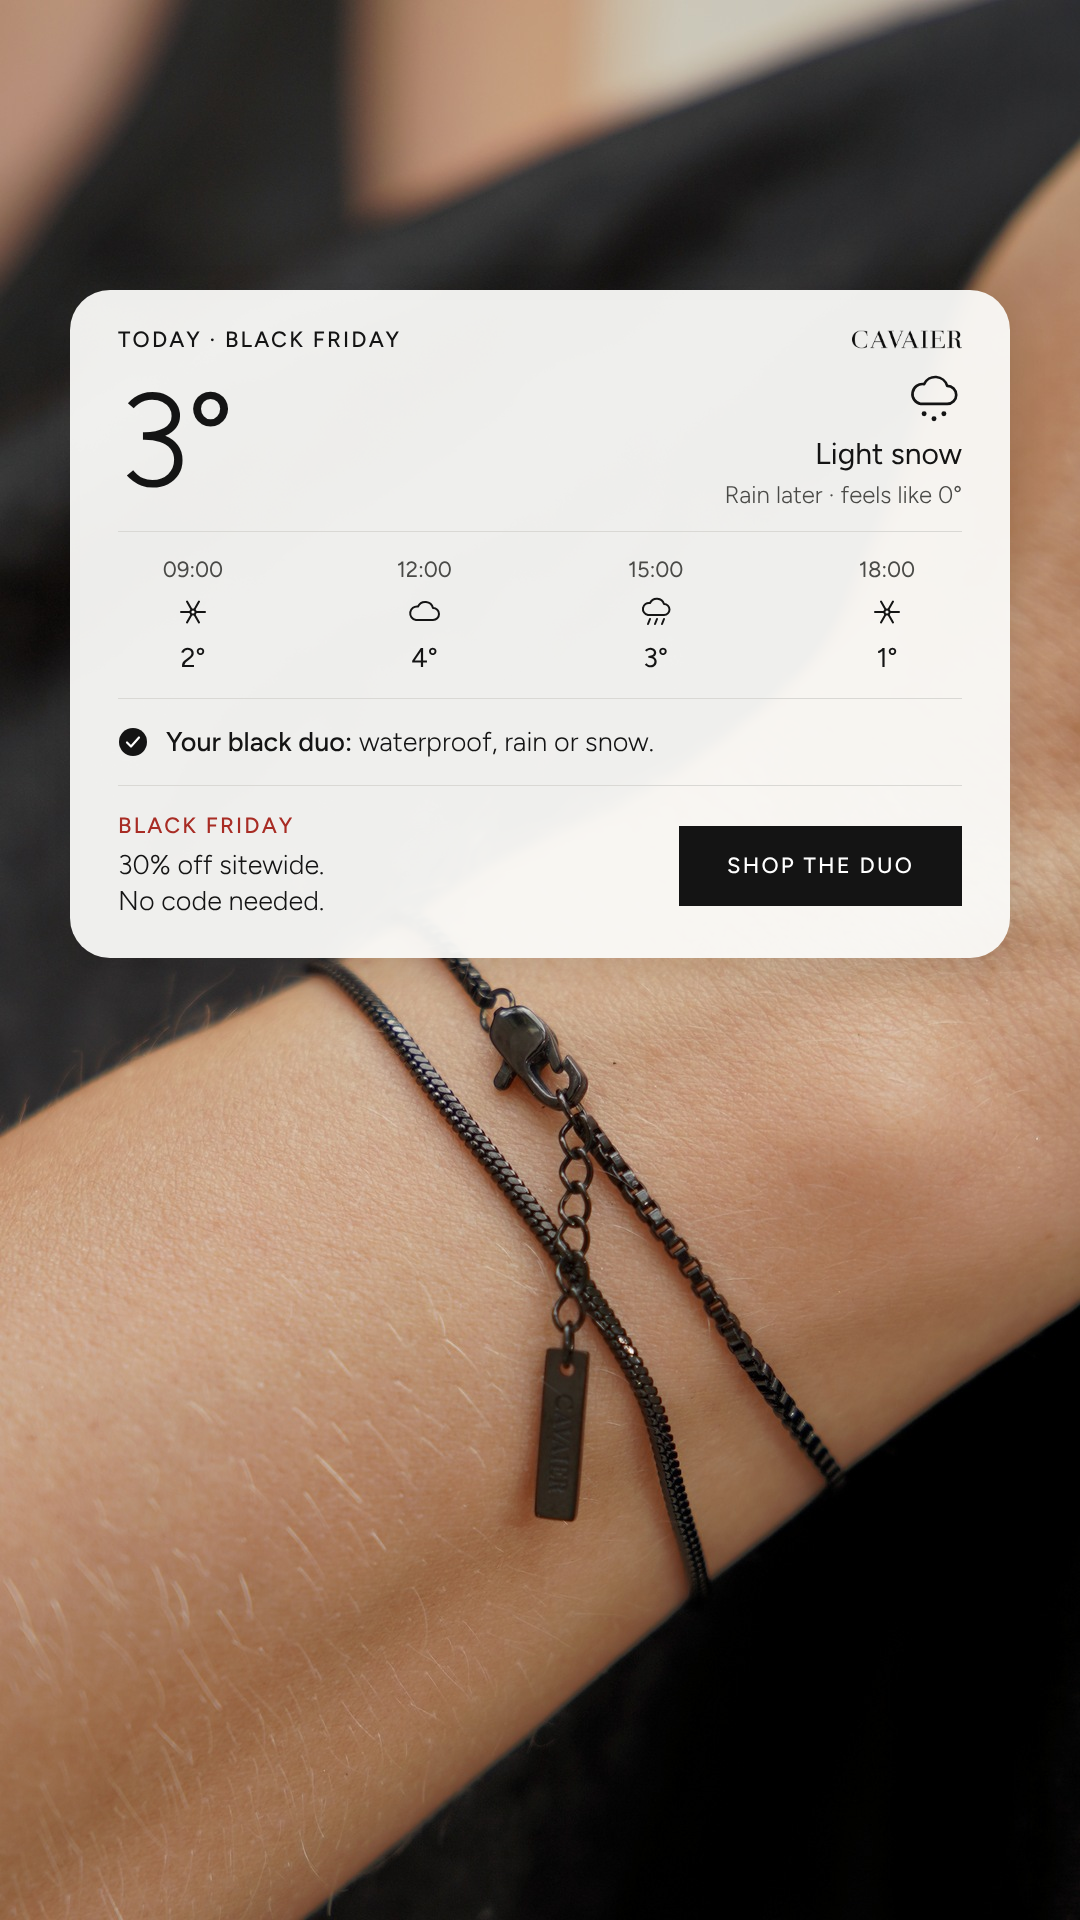
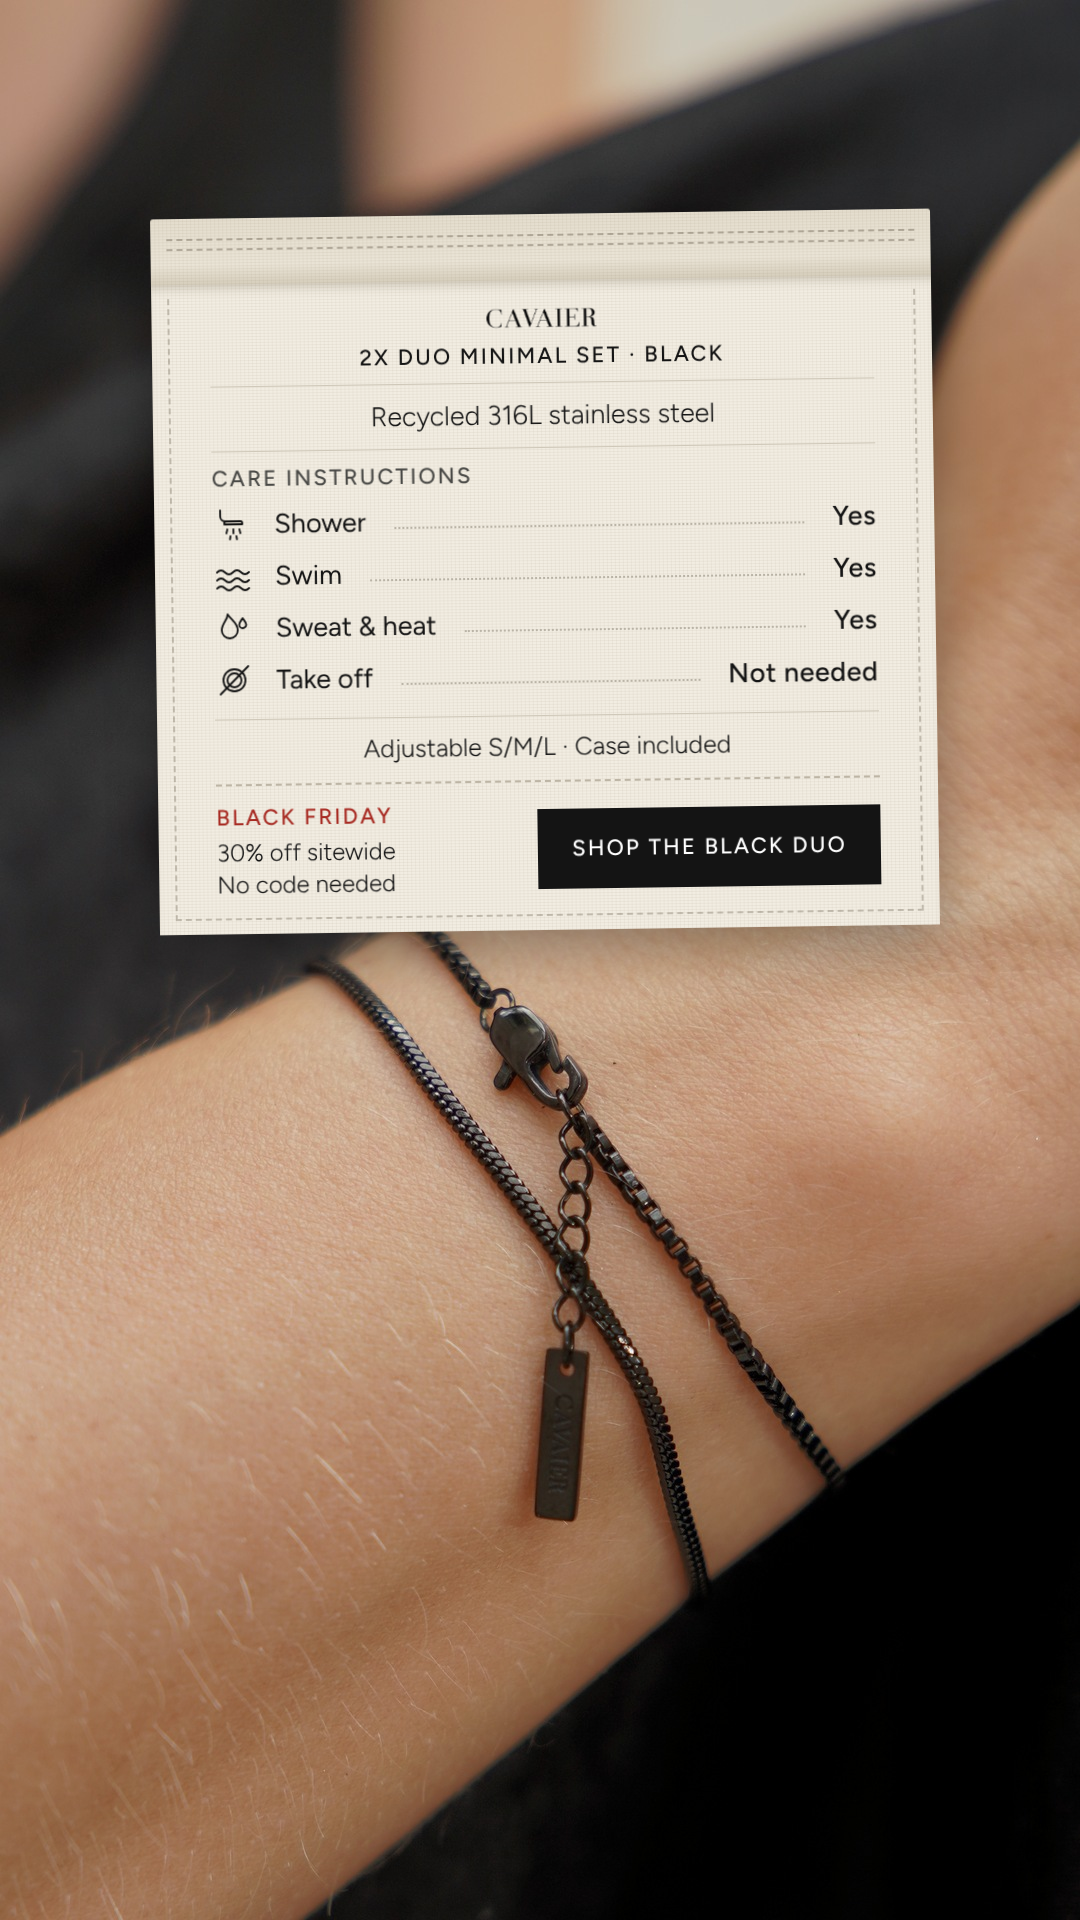
W435 C1: care-label concept replaces the weather widget
Claude-Session: https://claude.ai/code/session_01LtGMNmy7hV4kZNsS3Vsb6Q

Changed region(s): [[0.0611, 0.0938, 0.9472, 0.5]]

diff --git a/bfcm26/canvas/W435-C1.dc.html b/bfcm26/canvas/W435-C1.dc.html
@@ -2,7 +2,7 @@
 <html lang="en">
 <head>
 <meta charset="utf-8">
-<title>W Batch 435 - C1 · Weather widget, Black Friday snow (black duo)</title>
+<title>W Batch 435 - C1 · Care label (black duo)</title>
 <script src="./support.js"></script>
 </head>
 <body>
@@ -16,30 +16,32 @@ a{color:#141414}a:hover{color:#000000}
 </helmet>
 <div style="width: 1080px; height: 1920px; position: relative; overflow: hidden; background: #EDEBE6; font-family: Figtree, sans-serif; color: #141414">
 <img src="/_blob/428bca41cd64d10add6d759c8494bf14" alt="The black duo (box chain and square chain with bar tag) on a wrist over a dark wool layer" style="position: absolute; inset: 0; width: 1080px; height: 1920px; object-fit: cover; display: block">
-<div style="position: absolute; top: 290px; left: 70px; width: 940px; box-sizing: border-box; padding: 36px 48px 38px; background: rgba(250,250,248,0.95); border-radius: 40px; box-shadow: 0 10px 40px rgba(0,0,0,0.10)">
-<div style="display: flex; justify-content: space-between; align-items: center">
-<span style="font-size: 22px; font-weight: 500; letter-spacing: 0.1em">TODAY · BLACK FRIDAY</span>
+<div style="position: absolute; top: 214px; left: 150px; width: 780px; transform: rotate(-0.8deg); transform-origin: 50% 0; filter: drop-shadow(0 18px 30px rgba(0,0,0,0.35))">
+<div style="position: relative; height: 66px; background: repeating-linear-gradient(0deg, rgba(120,105,80,0.07) 0 1px, rgba(255,255,255,0) 1px 3px), repeating-linear-gradient(90deg, rgba(120,105,80,0.06) 0 1px, rgba(255,255,255,0) 1px 4px), linear-gradient(180deg, #E4DDCD 0%, #EAE4D6 70%, #D6CEBC 100%); border-radius: 3px 3px 0 0">
+<div style="position: absolute; left: 16px; right: 16px; border-top: 2px dashed rgba(90,80,62,0.38); top: 20px"></div>
+<div style="position: absolute; left: 16px; right: 16px; border-top: 2px dashed rgba(90,80,62,0.38); top: 30px"></div>
+</div>
+<div style="position: relative; box-sizing: border-box; padding: 28px 58px 32px; background: repeating-linear-gradient(0deg, rgba(120,105,80,0.07) 0 1px, rgba(255,255,255,0) 1px 3px), repeating-linear-gradient(90deg, rgba(120,105,80,0.06) 0 1px, rgba(255,255,255,0) 1px 4px), #F2EDE2; box-shadow: inset 0 10px 12px -8px rgba(80,66,40,0.28)">
+<div style="position: absolute; left: 16px; right: 16px; top: 14px; bottom: 14px; border: 2px dashed rgba(90,80,62,0.30); border-top: none; pointer-events: none"></div>
+<div style="display: flex; flex-direction: column; align-items: center; gap: 14px">
 <img src="/_blob/b5d78a878b48e10609c923597dd1852e" alt="Cavaier" style="width: 110px; height: auto; display: block">
+<span style="font-size: 22px; font-weight: 500; letter-spacing: 0.1em; text-align: center">2X DUO MINIMAL SET · BLACK</span>
 </div>
-<div style="display: flex; align-items: center; justify-content: space-between; margin-top: 18px">
-<span style="font-size: 132px; font-weight: 300; line-height: 1; letter-spacing: -0.02em">3°</span>
-<div style="display: flex; flex-direction: column; align-items: flex-end; gap: 8px">
-<svg width="56" height="56" viewBox="0 0 34 34"><path d="M9 20 h16 a5.5 5.5 0 0 0 0 -11 a7.5 7.5 0 0 0 -14 -1 a6 6 0 0 0 -2 12 z" fill="none" stroke="#141414" stroke-width="1.6" stroke-linejoin="round"/><circle cx="11" cy="26" r="1.5" fill="#141414"/><circle cx="17" cy="29" r="1.5" fill="#141414"/><circle cx="23" cy="26" r="1.5" fill="#141414"/></svg>
-<span style="font-size: 30px; font-weight: 400">Light snow</span>
-<span style="font-size: 24px; font-weight: 300; color: #4A4A47">Rain later · feels like 0°</span>
-</div>
-</div>
-<div style="display: flex; justify-content: space-between; margin-top: 22px; padding-top: 24px; border-top: 1px solid #D9D8D4"><div style="display: flex; flex-direction: column; align-items: center; gap: 12px; width: 150px"><span style="font-size: 22px; font-weight: 400; color: #4A4A47">09:00</span><svg width="34" height="34" viewBox="0 0 34 34"><line x1="5.0" y1="17.0" x2="29.0" y2="17.0" stroke="#141414" stroke-width="2" stroke-linecap="round"/><line x1="11.0" y1="6.6" x2="23.0" y2="27.4" stroke="#141414" stroke-width="2" stroke-linecap="round"/><line x1="23.0" y1="6.6" x2="11.0" y2="27.4" stroke="#141414" stroke-width="2" stroke-linecap="round"/><circle cx="17" cy="17" r="2.6" fill="#FAFAF8" stroke="#141414" stroke-width="2"/></svg><span style="font-size: 27px; font-weight: 400">2°</span></div><div style="display: flex; flex-direction: column; align-items: center; gap: 12px; width: 150px"><span style="font-size: 22px; font-weight: 400; color: #4A4A47">12:00</span><svg width="34" height="34" viewBox="0 0 34 34"><path d="M9 25 h17 a6 6 0 0 0 0 -12 a8 8 0 0 0 -15 -1.5 a6.8 6.8 0 0 0 -2 13.5 z" fill="none" stroke="#141414" stroke-width="2" stroke-linejoin="round"/></svg><span style="font-size: 27px; font-weight: 400">4°</span></div><div style="display: flex; flex-direction: column; align-items: center; gap: 12px; width: 150px"><span style="font-size: 22px; font-weight: 400; color: #4A4A47">15:00</span><svg width="34" height="34" viewBox="0 0 34 34"><path d="M9 20 h16 a5.5 5.5 0 0 0 0 -11 a7.5 7.5 0 0 0 -14 -1 a6 6 0 0 0 -2 12 z" fill="none" stroke="#141414" stroke-width="2" stroke-linejoin="round"/><path d="M11 24 l-2 5 M18 24 l-2 5 M25 24 l-2 5" stroke="#141414" stroke-width="2" stroke-linecap="round"/></svg><span style="font-size: 27px; font-weight: 400">3°</span></div><div style="display: flex; flex-direction: column; align-items: center; gap: 12px; width: 150px"><span style="font-size: 22px; font-weight: 400; color: #4A4A47">18:00</span><svg width="34" height="34" viewBox="0 0 34 34"><line x1="5.0" y1="17.0" x2="29.0" y2="17.0" stroke="#141414" stroke-width="2" stroke-linecap="round"/><line x1="11.0" y1="6.6" x2="23.0" y2="27.4" stroke="#141414" stroke-width="2" stroke-linecap="round"/><line x1="23.0" y1="6.6" x2="11.0" y2="27.4" stroke="#141414" stroke-width="2" stroke-linecap="round"/><circle cx="17" cy="17" r="2.6" fill="#FAFAF8" stroke="#141414" stroke-width="2"/></svg><span style="font-size: 27px; font-weight: 400">1°</span></div></div>
-<div style="display: flex; align-items: center; gap: 18px; margin-top: 24px; padding-top: 24px; border-top: 1px solid #D9D8D4">
-<svg width="30" height="30" viewBox="0 0 30 30"><circle cx="15" cy="15" r="14" fill="#141414"/><path d="M9 15.5 l4 4 l8 -9" fill="none" stroke="#FFFFFF" stroke-width="2.2" stroke-linecap="round" stroke-linejoin="round"/></svg>
-<span style="font-size: 27px; font-weight: 300; line-height: 1.4"><span style="font-weight: 500">Your black duo:</span> waterproof, rain or snow.</span>
-</div>
-<div style="display: flex; align-items: center; justify-content: space-between; margin-top: 24px; padding-top: 26px; border-top: 1px solid #D9D8D4">
-<div style="display: flex; flex-direction: column; gap: 8px">
+<div style="height: 0; border-top: 1px solid #CFC8B9; margin: 13px 0"></div>
+<span style="display: block; text-align: center; font-size: 27px; font-weight: 300; line-height: 1.4">Recycled 316L stainless steel</span>
+<div style="height: 0; border-top: 1px solid #CFC8B9; margin: 13px 0"></div>
+<span style="display: block; font-size: 22px; font-weight: 500; letter-spacing: 0.1em; color: #4A4A47; margin-bottom: 6px">CARE INSTRUCTIONS</span>
+<div style="display: flex; align-items: center; gap: 22px; height: 52px"><svg width="40" height="40" viewBox="0 0 40 40" style="flex: none"><path d="M8 6 v6 a5 5 0 0 0 5 5 h7" fill="none" stroke="#141414" stroke-width="1.8" stroke-linecap="round" stroke-linejoin="round"/><path d="M14 17 h14 a2 2 0 0 1 2 2 v1 h-18 v-1 a2 2 0 0 1 2 -2 z" fill="none" stroke="#141414" stroke-width="1.8" stroke-linecap="round" stroke-linejoin="round"/><path d="M15 25 l-1 4 M21 25 l0 4 M27 25 l1 4 M18 32 l-0.5 3 M24 32 l0.5 3" fill="none" stroke="#141414" stroke-width="1.8" stroke-linecap="round" stroke-linejoin="round"/></svg><span style="font-size: 27px; font-weight: 400">Shower</span><div style="flex: 1; border-bottom: 2px dotted #B9B3A6; margin: 0 6px; transform: translateY(6px)"></div><span style="font-size: 27px; font-weight: 500; letter-spacing: 0.02em">Yes</span></div><div style="display: flex; align-items: center; gap: 22px; height: 52px"><svg width="40" height="40" viewBox="0 0 40 40" style="flex: none"><path d="M4 16 q4 -4 8 0 t8 0 t8 0 t8 0" fill="none" stroke="#141414" stroke-width="1.8" stroke-linecap="round" stroke-linejoin="round"/><path d="M4 24 q4 -4 8 0 t8 0 t8 0 t8 0" fill="none" stroke="#141414" stroke-width="1.8" stroke-linecap="round" stroke-linejoin="round"/><path d="M4 32 q4 -4 8 0 t8 0 t8 0 t8 0" fill="none" stroke="#141414" stroke-width="1.8" stroke-linecap="round" stroke-linejoin="round"/></svg><span style="font-size: 27px; font-weight: 400">Swim</span><div style="flex: 1; border-bottom: 2px dotted #B9B3A6; margin: 0 6px; transform: translateY(6px)"></div><span style="font-size: 27px; font-weight: 500; letter-spacing: 0.02em">Yes</span></div><div style="display: flex; align-items: center; gap: 22px; height: 52px"><svg width="40" height="40" viewBox="0 0 40 40" style="flex: none"><path d="M14 6 c0 6 -6 9 -6 16 a8 8 0 0 0 16 0 c0 -7 -6 -10 -10 -16 z" fill="none" stroke="#141414" stroke-width="1.8" stroke-linecap="round" stroke-linejoin="round"/><path d="M29 10 c-2 3 -3.5 4.5 -3.5 6.5 a3.5 3.5 0 0 0 7 0 c0 -2 -1.5 -3.5 -3.5 -6.5 z" fill="none" stroke="#141414" stroke-width="1.8" stroke-linecap="round" stroke-linejoin="round"/></svg><span style="font-size: 27px; font-weight: 400">Sweat &amp; heat</span><div style="flex: 1; border-bottom: 2px dotted #B9B3A6; margin: 0 6px; transform: translateY(6px)"></div><span style="font-size: 27px; font-weight: 500; letter-spacing: 0.02em">Yes</span></div><div style="display: flex; align-items: center; gap: 22px; height: 52px"><svg width="40" height="40" viewBox="0 0 40 40" style="flex: none"><circle cx="20" cy="20" r="11" fill="none" stroke="#141414" stroke-width="1.8" stroke-linecap="round" stroke-linejoin="round"/><circle cx="20" cy="20" r="7" fill="none" stroke="#141414" stroke-width="1.8" stroke-linecap="round" stroke-linejoin="round"/><path d="M6 34 L34 6" fill="none" stroke="#141414" stroke-width="1.8" stroke-linecap="round" stroke-linejoin="round"/></svg><span style="font-size: 27px; font-weight: 400">Take off</span><div style="flex: 1; border-bottom: 2px dotted #B9B3A6; margin: 0 6px; transform: translateY(6px)"></div><span style="font-size: 27px; font-weight: 500; letter-spacing: 0.02em">Not needed</span></div>
+<div style="height: 0; border-top: 1px solid #CFC8B9; margin: 13px 0"></div>
+<span style="display: block; text-align: center; font-size: 25px; font-weight: 300; line-height: 1.4">Adjustable S/M/L · Case included</span>
+<div style="height: 0; border-top: 2px dashed #BDB5A5; margin: 16px 0 18px"></div>
+<div style="display: flex; align-items: center; justify-content: space-between; gap: 20px">
+<div style="display: flex; flex-direction: column; gap: 6px">
 <span style="font-size: 22px; font-weight: 500; letter-spacing: 0.1em; color: #A82C24">BLACK FRIDAY</span>
-<span style="font-size: 27px; font-weight: 300; line-height: 1.35">30% off sitewide.<br>No code needed.</span>
+<span style="font-size: 24px; font-weight: 300; line-height: 1.35">30% off sitewide<br>No code needed</span>
 </div>
-<a href="https://cavaier.com/products/2x-duo-minimal-set-for-her?variant=54997776892250" style="display: inline-flex; align-items: center; justify-content: center; height: 80px; padding: 0 48px; background: #141414; color: #FFFFFF; text-decoration: none; font-size: 22px; font-weight: 500; letter-spacing: 0.1em; white-space: nowrap; ">SHOP THE DUO</a>
+<a href="https://cavaier.com/products/2x-duo-minimal-set-for-her?variant=54997776892250" style="display: inline-flex; align-items: center; justify-content: center; height: 80px; padding: 0 48px; background: #141414; color: #FFFFFF; text-decoration: none; font-size: 22px; font-weight: 500; letter-spacing: 0.1em; white-space: nowrap; padding: 0 34px;">SHOP THE BLACK DUO</a>
+</div>
 </div>
 </div>
 </div>
